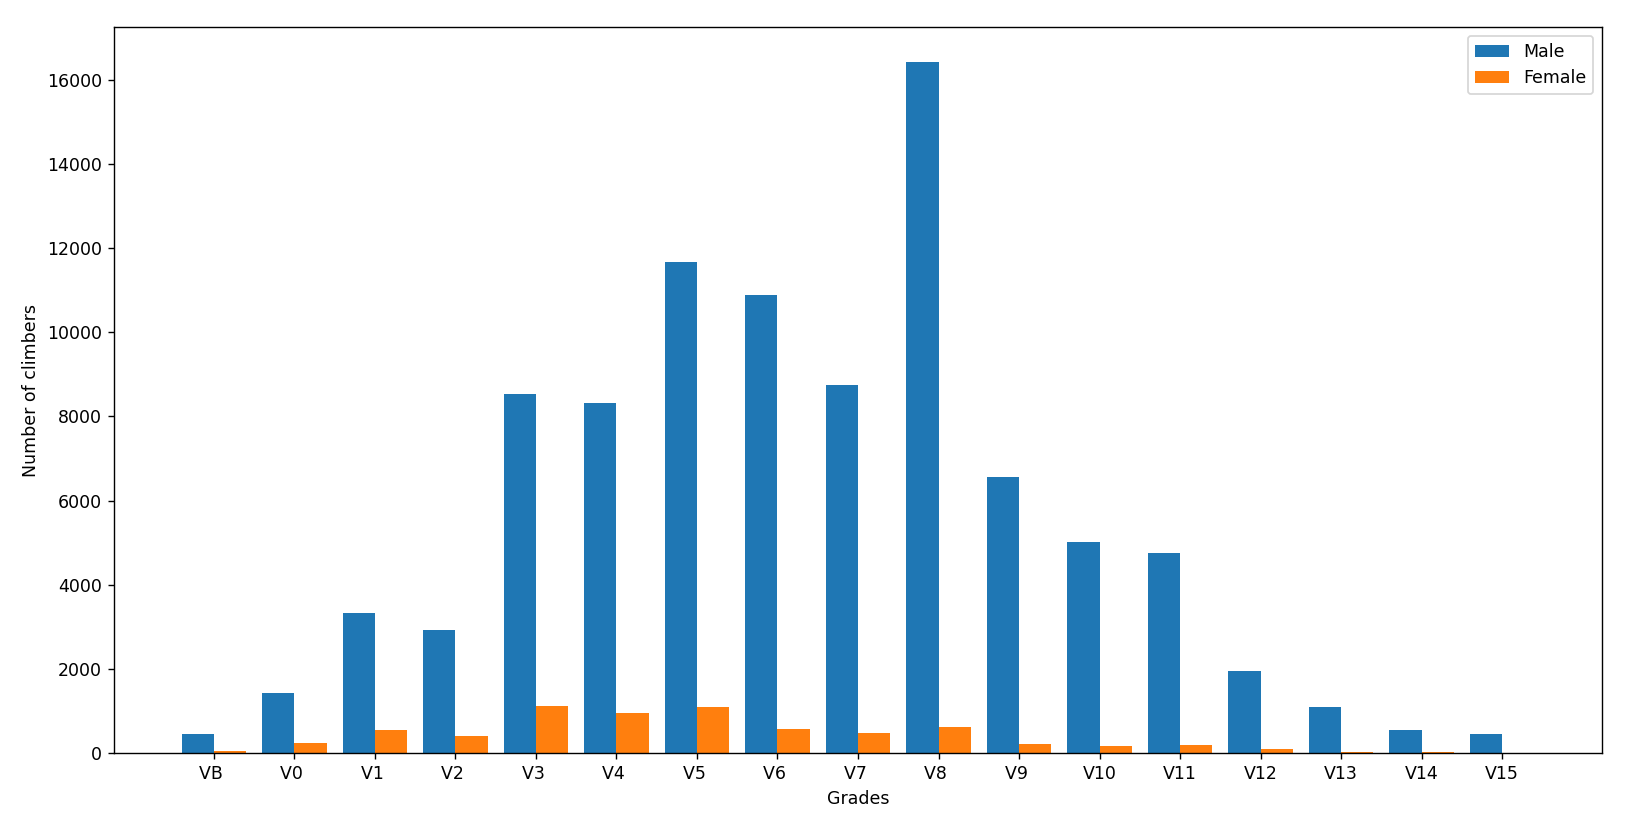
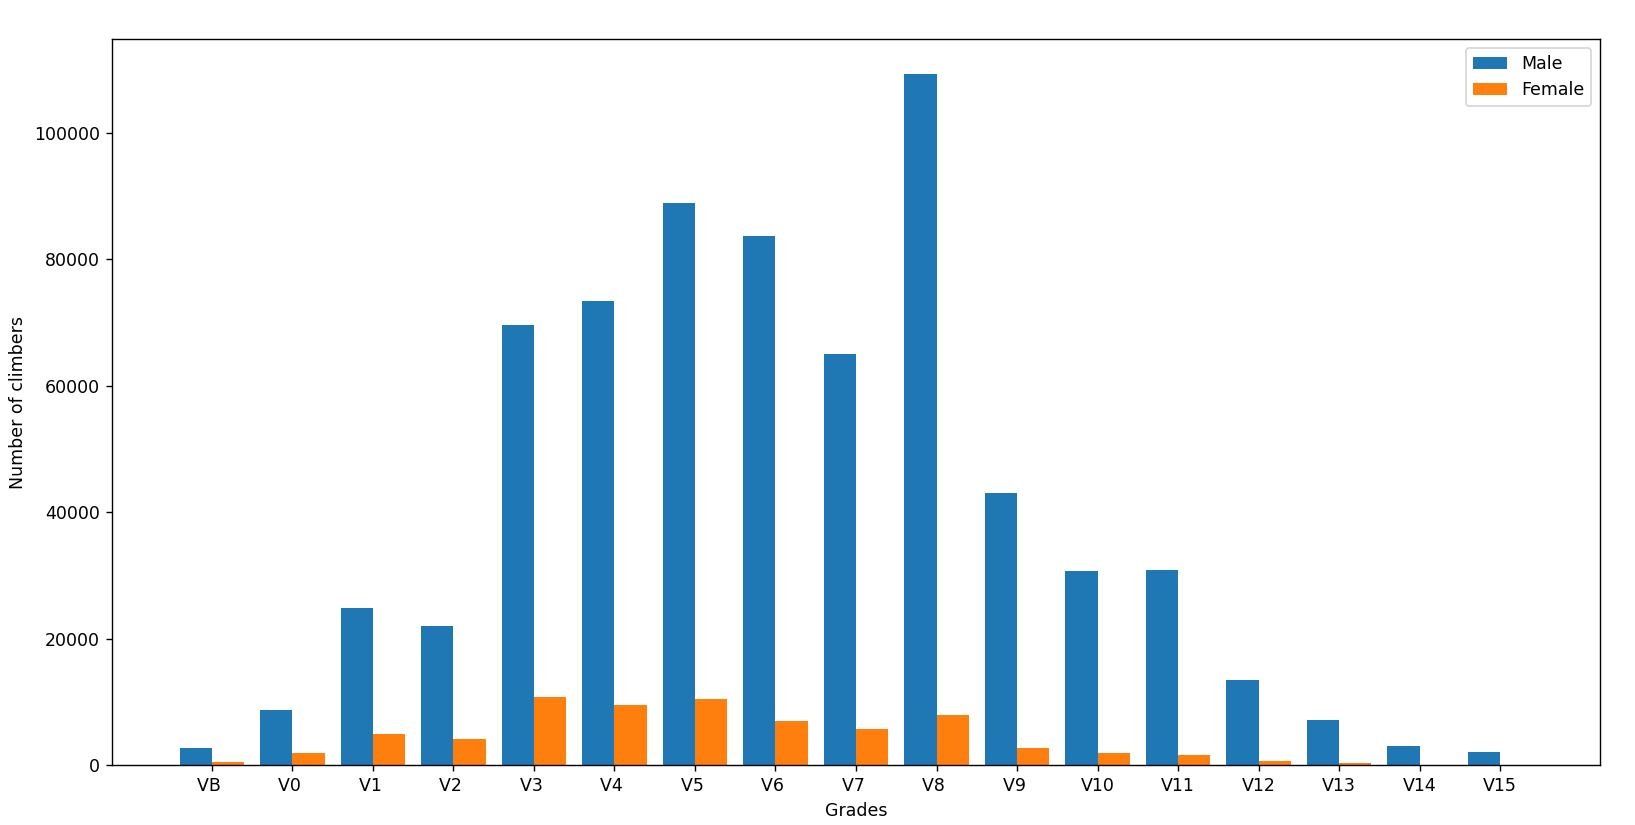
gradeBar edge case
makes sure dictionary value has key

diff --git a/gradeBar.py b/gradeBar.py
@@ -12,7 +12,7 @@ csvreader = csv.reader(file)
 header = []
 header = next(csvreader)
 header = [header[0], header[5], header[6], header[7], header[8]]
-print("scraped from user.csv: ", header)
+# print("scraped from user.csv: ", header)
 
 rows = []
 for row in csvreader:
@@ -35,7 +35,7 @@ csvreader1 = csv.reader(file1)
 header1 = []
 header1 = next(csvreader1)
 header1 = [header1[1], header1[2]]
-print("scraped from ascent*.csv: ", header1)
+# print("scraped from ascent*.csv: ", header1)
 
 rows1 = []
 for row1 in csvreader1:
@@ -57,13 +57,10 @@ y_pointsFemale = [0,0,0,0,0,0,0,0,0,0,0,0,0,0,0,0,0]    #number of male climbers
 
 user_gender = {}  #Dictionary of [user_id]:[gender]
 for user in user_data:
-    if user[0] in user_gender.keys():
-        user_gender[user[0]].append(int(user[1]))
-    else:
         user_gender[user[0]] = int(user[1])
 
 for climber in ascent_data:
-    if climber[1].isnumeric():
+    if climber[1].isnumeric() and climber[0] in user_gender:
         if int(climber[1])<=16:                                  # grade_id 0-16   VB
             if user_gender[climber[0]] == 0:
                 y_pointsMale[0] = y_pointsMale[0]+1
